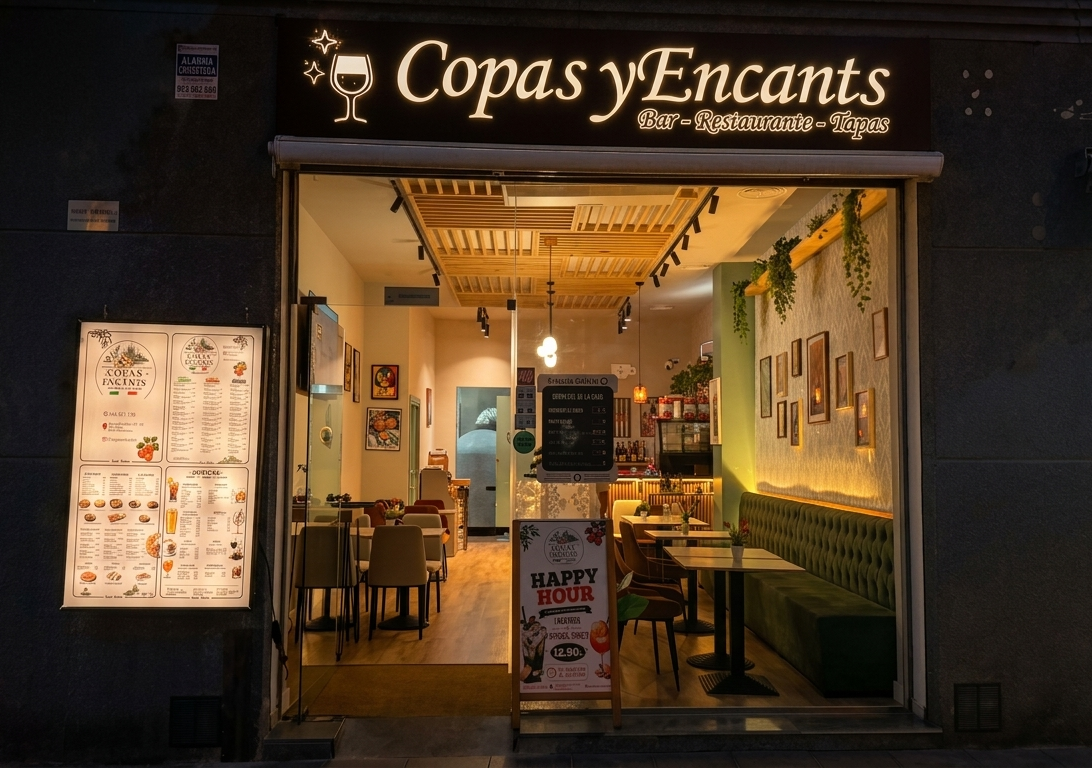
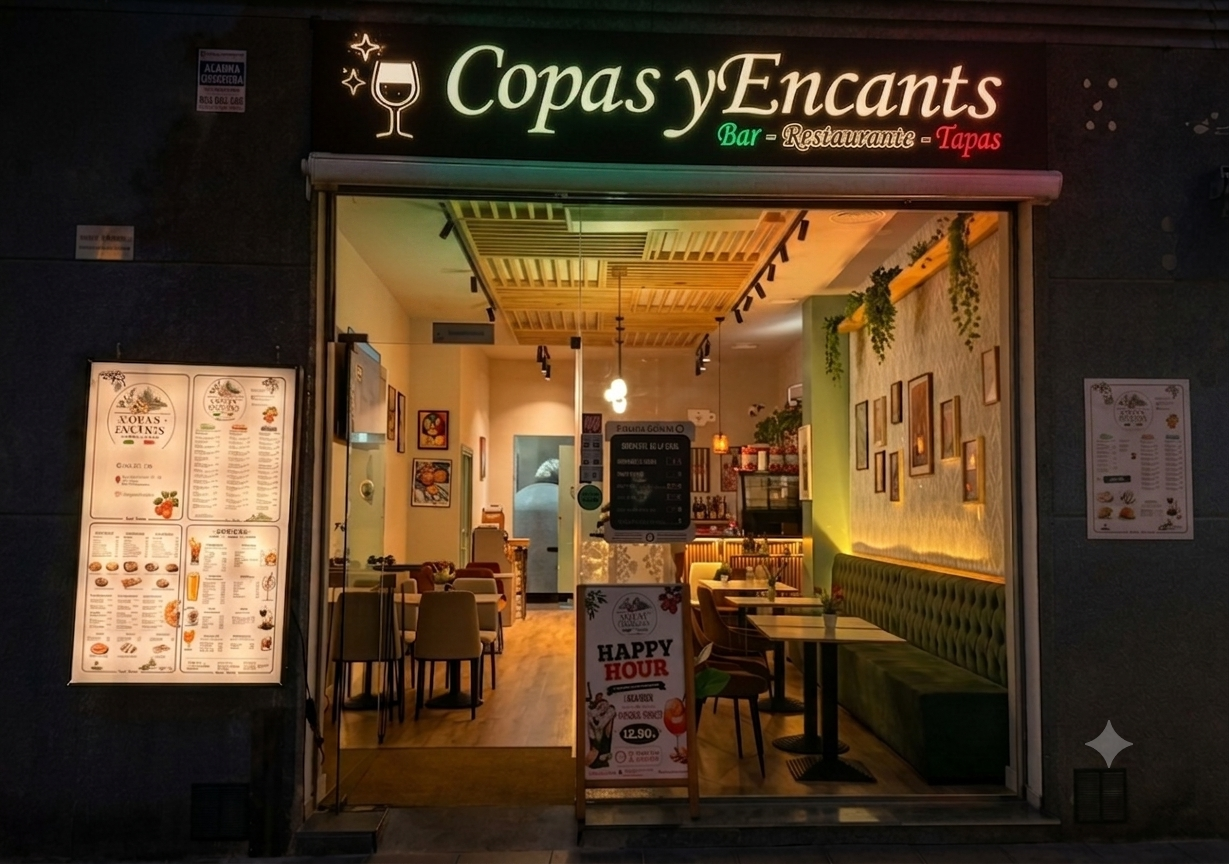
feat: add lightbox to gallery images and tweak hero framing
Gallery photos now open in a fullscreen dialog on click. Also adjusts
the hero drift animation, crops the hero image from the top instead of
centered, and swaps in an updated facade photo.

diff --git a/src/components/sections/gallery/gallery-01.tsx b/src/components/sections/gallery/gallery-01.tsx
@@ -5,6 +5,12 @@ import Image from "next/image";
 import { cn } from "@/lib/utils";
 import type { SectionProps } from "@/lib/component-types";
 import { Reveal } from "@/components/effects/reveal";
+import {
+  Dialog,
+  DialogContent,
+  DialogTitle,
+  DialogTrigger,
+} from "@/components/ui/dialog";
 
 export interface GalleryImage {
   src: string;
@@ -93,15 +99,38 @@ export function Gallery01({
             delay={0.04 * i}
             className={cn("h-full", image.area)}
           >
-            <figure className="group bg-muted relative h-full w-full overflow-hidden rounded-2xl shadow-sm">
-              <Image
-                src={image.src}
-                alt={image.alt}
-                fill
-                sizes="(min-width: 640px) 45vw, 90vw"
-                className="object-cover transition-transform duration-700 ease-out group-hover:scale-[1.04]"
-              />
-            </figure>
+            <Dialog>
+              <DialogTrigger asChild>
+                <button
+                  type="button"
+                  className="group bg-muted relative h-full w-full cursor-zoom-in overflow-hidden rounded-2xl shadow-sm outline-none ring-primary/60 transition focus-visible:ring-2 focus-visible:ring-offset-2 focus-visible:ring-offset-background"
+                  aria-label={`Abrir imagen: ${image.alt}`}
+                >
+                  <Image
+                    src={image.src}
+                    alt={image.alt}
+                    fill
+                    sizes="(min-width: 640px) 45vw, 90vw"
+                    className="object-cover transition-transform duration-700 ease-out group-hover:scale-[1.04]"
+                  />
+                </button>
+              </DialogTrigger>
+              <DialogContent
+                className="border-white/10 bg-black/90 p-2 text-white sm:max-w-[min(92vw,1200px)]"
+                showCloseButton
+              >
+                <DialogTitle className="sr-only">{image.alt}</DialogTitle>
+                <div className="relative h-[78svh] w-full overflow-hidden rounded-lg">
+                  <Image
+                    src={image.src}
+                    alt={image.alt}
+                    fill
+                    sizes="92vw"
+                    className="object-contain"
+                  />
+                </div>
+              </DialogContent>
+            </Dialog>
           </Reveal>
         ))}
       </div>

diff --git a/src/app/globals.css b/src/app/globals.css
@@ -484,7 +484,7 @@
   }
   .hero-image-drift {
     animation: hero-image-drift 14s ease-in-out infinite alternate;
-    transform-origin: center;
+    transform-origin: top center;
   }
   /* Respect reduced-motion for all animations */
 }
@@ -494,7 +494,7 @@
     transform: scale(1.02) translate3d(0, 0, 0);
   }
   to {
-    transform: scale(1.08) translate3d(-1.5%, -1%, 0);
+    transform: scale(1.07) translate3d(-1.25%, 0.75%, 0);
   }
 }
 

diff --git a/src/components/sections/hero/hero-03.tsx b/src/components/sections/hero/hero-03.tsx
@@ -91,7 +91,7 @@ export function Hero03({
             fill
             priority
             sizes="100vw"
-            className="hero-image-drift object-cover object-center"
+            className="hero-image-drift object-cover object-top"
           />
         )}
         <div className="absolute inset-0 bg-gradient-to-t from-black/82 via-black/35 to-black/20" />
